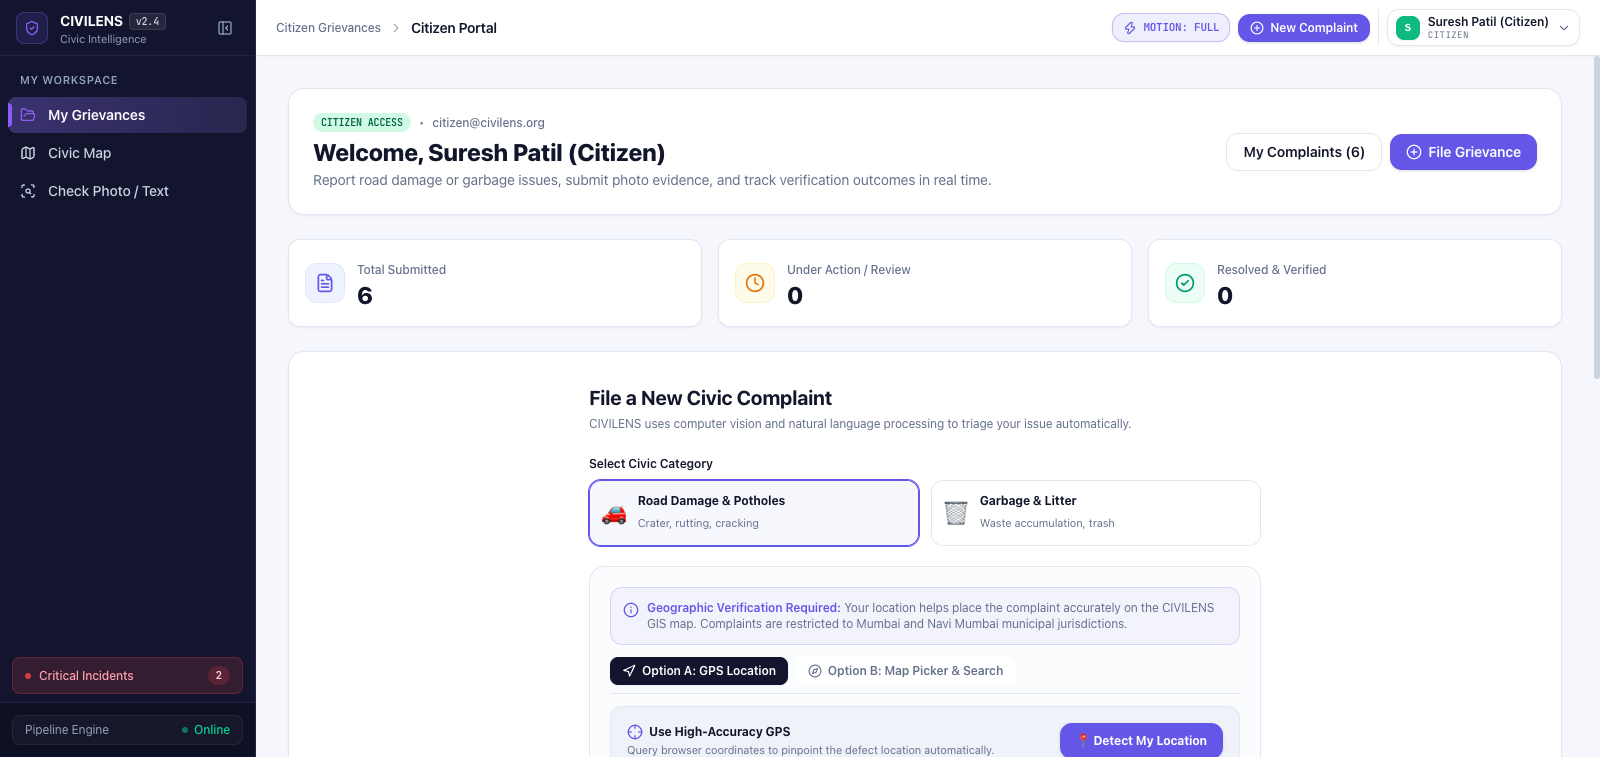
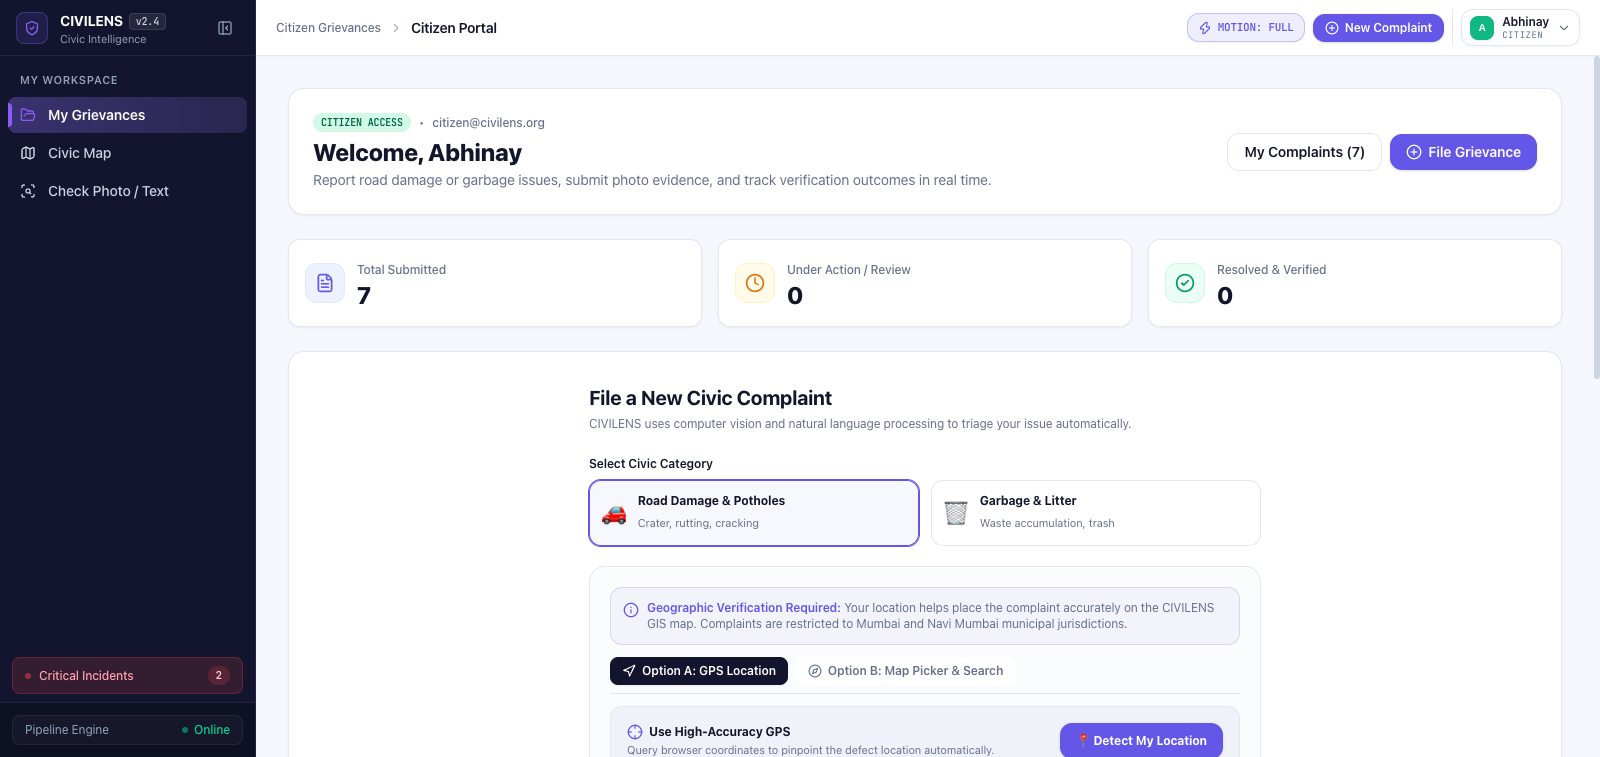
refactor: update demo user names to Abhinay across security, repository, and documentation

diff --git a/app/db/repository.py b/app/db/repository.py
@@ -628,8 +628,8 @@ class SqliteIssueRepository:
     def seed_default_users_if_empty(self) -> int:
         """
         Initializes default demo accounts in development environments:
-        - Citizen: citizen@civilens.org / Citizen@123
-        - Inspector: inspector@civilens.org / Inspector@123
+        - Citizen: citizen@civilens.org / Citizen@123 (Abhinay)
+        - Inspector: inspector@civilens.org / Inspector@123 (Abhinay)
         - Administrator: admin@civilens.org / Admin@123
         """
         from app.core.security import hash_password
@@ -649,8 +649,8 @@ class SqliteIssueRepository:
             admin_pwd = os.getenv("CIVILENS_DEV_ADMIN_PASSWORD", "Admin@123")
 
             defaults = [
-                ("CITIZEN-001", "citizen", "citizen@civilens.org", "Suresh Patil (Citizen)", citizen_pwd, "citizen"),
-                ("INSP-MUMBAI-01", "inspector", "inspector@civilens.org", "Ward Field Inspector", inspector_pwd, "inspector"),
+                ("CITIZEN-001", "citizen", "citizen@civilens.org", "Abhinay", citizen_pwd, "citizen"),
+                ("INSP-MUMBAI-01", "inspector", "inspector@civilens.org", "Abhinay", inspector_pwd, "inspector"),
                 ("ADMIN-SYS-01", "admin", "admin@civilens.org", "Municipal Operations Administrator", admin_pwd, "admin"),
             ]
             inserted = 0

diff --git a/app/core/security.py b/app/core/security.py
@@ -32,7 +32,7 @@ class AuthenticatedUser(BaseModel):
 DEV_TOKENS = {
     "demo-inspector-token": AuthenticatedUser(
         user_id="INSP-MUMBAI-01",
-        name="Ward Field Inspector",
+        name="Abhinay",
         role=UserRole.INSPECTOR,
         email="inspector@civilens.org",
         username="inspector"
@@ -46,7 +46,7 @@ DEV_TOKENS = {
     ),
     "demo-citizen-token": AuthenticatedUser(
         user_id="CITIZEN-DEMO-01",
-        name="Demo Citizen",
+        name="Abhinay",
         role=UserRole.CITIZEN,
         email="citizen@civilens.org",
         username="citizen"
@@ -204,7 +204,7 @@ def authenticate_credentials(raw_token: Optional[str]) -> Optional[Authenticated
     if settings.inspector_api_key and cleaned_token == settings.inspector_api_key:
         return AuthenticatedUser(
             user_id="INSP-ENV-01",
-            name="Configured Field Inspector",
+            name="Abhinay",
             role=UserRole.INSPECTOR,
             email="inspector.env@civilens.org",
             username="inspector_env"

diff --git a/docs/DEMO_GUIDE.md b/docs/DEMO_GUIDE.md
@@ -219,8 +219,8 @@ CIVILENS provides a dedicated, role-specific authentication architecture connect
 
 | Persona | Role | Email / Identifier | Password | Destination Route | Permitted Capabilities |
 |---|---|---|---|---|---|
-| **Suresh Patil** | `CITIZEN` | `citizen@civilens.org` | `Citizen@123` | Citizen Portal (`/` as citizen) | File pothole/garbage reports, upload photos, AI intake preview, track owned complaints (`/api/v1/issues/my`) |
-| **Field Inspector** | `INSPECTOR` | `inspector@civilens.org` | `Inspector@123` | Command Center (`/` as inspector) | Priority queue triage, YOLOv8/YOLO11 visual inspection, status progression, SSIM before-and-after verification |
+| **Abhinay** | `CITIZEN` | `citizen@civilens.org` | `Citizen@123` | Citizen Portal (`/` as citizen) | File pothole/garbage reports, upload photos, AI intake preview, track owned complaints (`/api/v1/issues/my`) |
+| **Abhinay** | `INSPECTOR` | `inspector@civilens.org` | `Inspector@123` | Command Center (`/` as inspector) | Priority queue triage, YOLOv8/YOLO11 visual inspection, status progression, SSIM before-and-after verification |
 | **Operations Admin** | `ADMIN` | `admin@civilens.org` | `Admin@123` | Full Governance (`/` as admin) | Complete operational dashboard, GIS map, model health telemetry, routing dispatch rules, demo data reset, user administration |
 
 ---
@@ -235,7 +235,7 @@ CIVILENS provides a dedicated, role-specific authentication architecture connect
 3. Click **"Access Citizen Portal"** (routes to `/login/citizen`).
 4. Test Show/Hide password toggle and client validation.
 5. Log in with `citizen@civilens.org` / `Citizen@123`.
-6. Notice verified server session token issued, header user badge displaying **`Suresh Patil (Citizen)`** with role pill `CITIZEN`.
+6. Notice verified server session token issued, header user badge displaying **`Abhinay`** with role pill `CITIZEN`.
 
 ---
 
